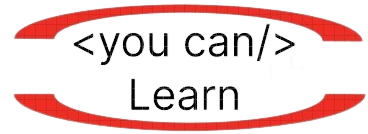
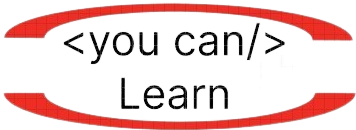
Fixed Mobile Navbar, Fixed Hero Layout

diff --git a/app/(pages)/Home/index.tsx b/app/(pages)/Home/index.tsx
@@ -1,34 +1,31 @@
-import image from "../../../assets/images/dev.png";
+import image from "@/assets/images/dev.png";
 import Image from "next/image";
 import AnimatedElement from "@/components/AnimatedElement";
 import { Button } from "@/components/Button";
-import wrap from "word-wrap"
+import wrap from "word-wrap";
+import VideoBackground from "./VideoBackground";
+import Section from "@/components/Section";
 
 export default function Home() {
   return (
-    <section className="h-screen flex items-stretch text-white px-12">
-      <video autoPlay muted loop className="absolute inset-0 w-full h-full object-cover  z-[-1]">
-        <source src="/video-bg.mp4" type="video/mp4" />
-        Your browser does not support the video tag.
-      </video>
-      <div className="bg-black/40 absolute inset-0 z-[-1]" />
-      <div className="min-h-full grid md:grid-cols-2 overflow-hidden">
-        <div className="flex flex-col justify-center gap-2 pt-24 md:pt-0">
-          <h2 className="text-3xl font-extrabold ">
-            {wrap("TORNA-TE UM DESENVOLVEDOR")} <br />
-            <AnimatedElement
-              element="span"
-              initial={{ opacity: 0, x: -20 }}
-              animate={{ opacity: [0, 1], x: [-20, 0] }}
-              className="md:text-7xl text-4xl text-primary"
-            >
-              OUTSYSTEM
-            </AnimatedElement>
-          </h2>
-          <Button className="w-full md:w-fit">Inscreva-te</Button>
+    <Section id="home" className="relative flex items-center full text-white">
+      <VideoBackground />
+      {/* With Video Background */}
+      <div className="md:grid md:grid-cols-2 flex flex-col mt-24 full md:gap-y-0 gap-y-12">
+        <div className="flex flex-col justify-center full text-center md:text-start">
+          <h4 className="text-2xl">Torna-te num Desenvolder</h4>
+          <h1 className="text-6xl text-primary">Outsystems</h1>
+          <Button className="mt-4 w-full md:w-fit">Inscrever-se</Button>
         </div>
-          <Image src={image} alt="Developer Coding" className="md:mt-24  max-w-[500px] w-full h-full" />
+        <div className="relative pb-[100%]">
+          <Image
+            className="object-contain md:object-right "
+            alt="Developer with a computer"
+            src={image}
+            fill
+          />
+        </div>
       </div>
-    </section>
+    </Section>
   );
 }

diff --git a/app/layout.tsx b/app/layout.tsx
@@ -1,27 +1,32 @@
-import Navbar from '@/components/Navbar'
-import './globals.css'
-import { Poppins } from 'next/font/google'
+import Navbar from "@/components/Navbar";
+import "./globals.css";
+import { Inter } from "next/font/google";
+import Providers from "./Providers";
 
-const poppins = Poppins({ subsets: ['latin'], weight: ["100", "200", "300", "400", "500", "600", "700", "800", "900"] })
+const inter = Inter({
+  subsets: ["latin"],
+  weight: ["100", "200", "300", "400", "500", "600", "700", "800", "900"],
+});
 
 export const metadata = {
-  title: 'Torna-te um desenvolvedor Outsystem',
-  description: 'Faz parte da comunidade de desenvolvedores Outsystem em Angola'
-}
+  title: "Torna-te um desenvolvedor Outsystem",
+  description: "Faz parte da comunidade de desenvolvedores Outsystem em Angola",
+};
 
 type Props = {
-  children: React.ReactNode
-}
+  children: React.ReactNode;
+};
+
 export default function RootLayout(props: Props) {
-  const { children } = props
+  const { children } = props;
   return (
     <html lang="en">
-      
-      <body className={`${poppins.className} scroll-smooth max-w-5xl mx-auto`}>
-        <Navbar />
-
-        {children}
+      <body className={`${inter.className}  scroll-smooth`}>
+        <Providers>
+          <Navbar />
+          {children}
+        </Providers>
       </body>
     </html>
-  )
+  );
 }

diff --git a/components/Section/index.tsx b/components/Section/index.tsx
@@ -1,26 +1,19 @@
 import React from "react";
 import Overlay from "../Overlay";
 
-type PageSections = "courses" | "questions" | "devs" | "contact" 
+type PageSections = "courses" | "questions" | "devs" | "contact" | "home"
 type Props = {
   children: React.ReactNode;
-  containerClassName?: string;
-  overlayClassName?: string;
-  title?: string;
-  id?: PageSections;
-  showOverlayBg?: boolean;
-  isFullScreen?: boolean;
+  id: PageSections;
 } & React.HTMLAttributes<HTMLElement>;
+export const screenExtremesClassname = "max-w-[1700px] px-8"
 
 export default function Section(props: Props) {
-  const { children, className, containerClassName, title, id, overlayClassName, isFullScreen = false, showOverlayBg = true, ...rest } = props;
+  const { children, id = "home", className } = props;
 
   return (
-    <section id={id} className={`bg ${isFullScreen ? 'min-h-screen' : 'min-h-fit'} w-full flex flex-col ${className}`}>
-      <Overlay showOverlayBg={showOverlayBg} className={`md:px-20 px-12  grow flex flex-col gap-4 ${overlayClassName}`} >
-        {title ? <h4 className="text-2xl md:text-3xl text-center mb-12">{title}</h4> : null}
-        {children}
-      </Overlay>
+    <section id={id} className={`${screenExtremesClassname} ${className}`}>
+      {children}
     </section>
    
   );

diff --git a/components/Navbar/context.tsx b/components/Navbar/context.tsx
@@ -1,0 +1,50 @@
+import {
+  Dispatch,
+  ReactNode,
+  SetStateAction,
+  createContext,
+  useContext,
+  useState,
+} from "react";
+
+type NavbarContext = {
+  onNavbarLinkClick: () => void;
+  toggleMobileNavbar: () => void;
+  isMobileNavbarOpned: boolean;
+  setIsMobileNavOpned: Dispatch<SetStateAction<boolean>>;
+};
+
+const NavbarContext = createContext({} as NavbarContext);
+
+type INavbarContextProvider = {
+  children: ReactNode;
+};
+
+export const NavbarContextProvider = (props: INavbarContextProvider) => {
+  const { children } = props;
+  const [isMobileNavbarOpned, setIsMobileNavOpned] = useState<boolean>(false);
+  const onNavbarLinkClick = () => {
+    setIsMobileNavOpned(false);
+  };
+
+  const toggleMobileNavbar = () => {
+    setIsMobileNavOpned(!isMobileNavbarOpned);
+  };
+
+  return (
+    <NavbarContext.Provider
+      value={{
+        toggleMobileNavbar,
+        onNavbarLinkClick,
+        isMobileNavbarOpned,
+        setIsMobileNavOpned,
+      }}
+    >
+      {children}
+    </NavbarContext.Provider>
+  );
+};
+
+export const useNavbarContext = () => {
+  return useContext(NavbarContext)
+}

diff --git a/components/Navbar/MoblieNav.tsx b/components/Navbar/MoblieNav.tsx
@@ -5,22 +5,23 @@ import { RxHamburgerMenu } from "react-icons/rx";
 import { IoCloseSharp } from "react-icons/io5";
 import { motion, AnimatePresence } from "framer-motion";
 import { LinksList } from "./LinksList";
+import { useNavbarContext } from "./context";
 
 export default function MoblieNav() {
-  const [isOpen, setIsOpen] = useState(false);
+  const { isMobileNavbarOpned, toggleMobileNavbar } = useNavbarContext()
   return (
     <div className="block md:hidden">
       <button
         className={`relative nav-z-index `}
-        onClick={() => setIsOpen(!isOpen)}
+        onClick={toggleMobileNavbar}
       >
-        { isOpen ? <IoCloseSharp /> : <RxHamburgerMenu />}
+        {isMobileNavbarOpned  ? <IoCloseSharp /> : <RxHamburgerMenu />}
       </button>
 
       {/* NAVLINKS FOR SMALL DEVICES */}
       
       <AnimatePresence>
-        {isOpen ? (
+        {isMobileNavbarOpned ? (
           <motion.div
             initial={{ opacity: 0 }}
             exit={{ opacity: 0 }}

diff --git a/components/Navbar/index.tsx b/components/Navbar/index.tsx
@@ -2,21 +2,20 @@ import React from "react";
 import Logo from "./Logo";
 import { LinksList } from "./LinksList";
 import MoblieNav from "./MoblieNav";
+import { screenExtremesClassname } from "../Section";
 
 export default function Navbar() {
   return (
-    <>
-      <nav className="bg-white fixed nav-z-index inset-x-0 top-0">
-
-        <div className="mx-auto max-w-5xl flex items-center justify-between md:px-20 px-12 py-3">         
-          <Logo />
-          <div className="hidden md:block">
-            <LinksList />
-          </div>
-          <MoblieNav />
+    <nav className="bg-white fixed nav-z-index inset-x-0 top-0">
+      <div
+        className={`mx-auto flex items-center justify-between py-3 md:py-0 ${screenExtremesClassname}`}
+      >
+        <Logo />
+        <div className="hidden md:block">
+          <LinksList />
         </div>
-      </nav>
-    </>
-
+        <MoblieNav />
+      </div>
+    </nav>
   );
 }

diff --git a/components/Navbar/NavLink.tsx b/components/Navbar/NavLink.tsx
@@ -1,5 +1,8 @@
+"use client"
+
 import React from 'react'
 import { type Link } from './links'
+import { useNavbarContext } from './context'
 
 type Props = {
     link: Link
@@ -7,8 +10,12 @@ type Props = {
 
 export default function NavLink(props:Props) {
     const { link } = props
+    const { onNavbarLinkClick } = useNavbarContext()
   return (
-    <li className='hover:underline list-none text-neutral-900  font-bold text-sm'>
+    <li 
+      className='hover:text-primary list-none text-zinc-900 text-sm' 
+      onClick={onNavbarLinkClick}
+    >
         <a href={link.href}>{link.name}</a>
     </li>
   )

diff --git a/components/Navbar/Logo.tsx b/components/Navbar/Logo.tsx
@@ -1,9 +1,10 @@
 import React from 'react'
 import Image from "next/image"
+import Link from 'next/link'
 export default function Logo() {
   return (
-      <div className="relative nav-z-index w-24 h-12">
-        <Image src="/icon.png" fill className='object-contain' alt='Logo' />
-      </div>
+      <Link href="/" className="relative nav-z-index md:w-[200px] w-[100px] md:h-[70px] h-[35px]">
+        <Image src="/icon.png" fill className='object-contain object-left' alt='Logo' />
+      </Link>
       )
 }

diff --git a/app/(pages)/Home/VideoBackground.tsx b/app/(pages)/Home/VideoBackground.tsx
@@ -1,0 +1,12 @@
+import React from 'react'
+
+export default function VideoBackground() {
+  return (
+    <>
+        <video autoPlay muted loop className="absolute inset-0 w-full h-full object-cover  z-[-1]">
+              <source src="/video-bg.mp4" type="video/mp4" />
+        </video> 
+        <div className="absolute inset-0 bg-black/60 z-[-1]" />
+    </>
+  )
+}

diff --git a/app/Providers.tsx b/app/Providers.tsx
@@ -1,0 +1,13 @@
+"use client";
+
+import { NavbarContextProvider } from "@/components/Navbar/context";
+import React from "react";
+
+type Props = {
+  children: React.ReactNode;
+};
+
+export default function Providers(props: Props) {
+  const { children } = props;
+  return <NavbarContextProvider>{children}</NavbarContextProvider>;
+}

diff --git a/app/page.tsx b/app/page.tsx
@@ -9,9 +9,9 @@ export default async function Page() {
   return (
     <main>
       <Home /> 
-      <Courses /> 
-      <Questions />
-      <Contact />
+      {/* <Courses />  */}
+      {/* <Questions /> */}
+      {/* <Contact /> */}
     </main>
   );
 }

diff --git a/tailwind.config.js b/tailwind.config.js
@@ -15,6 +15,7 @@ module.exports = {
         "border-primary": "var(--border-primary)",
         "border-primary-hover": "var(--border-primary-hover)",
       },
+    
     },
   },
 };
